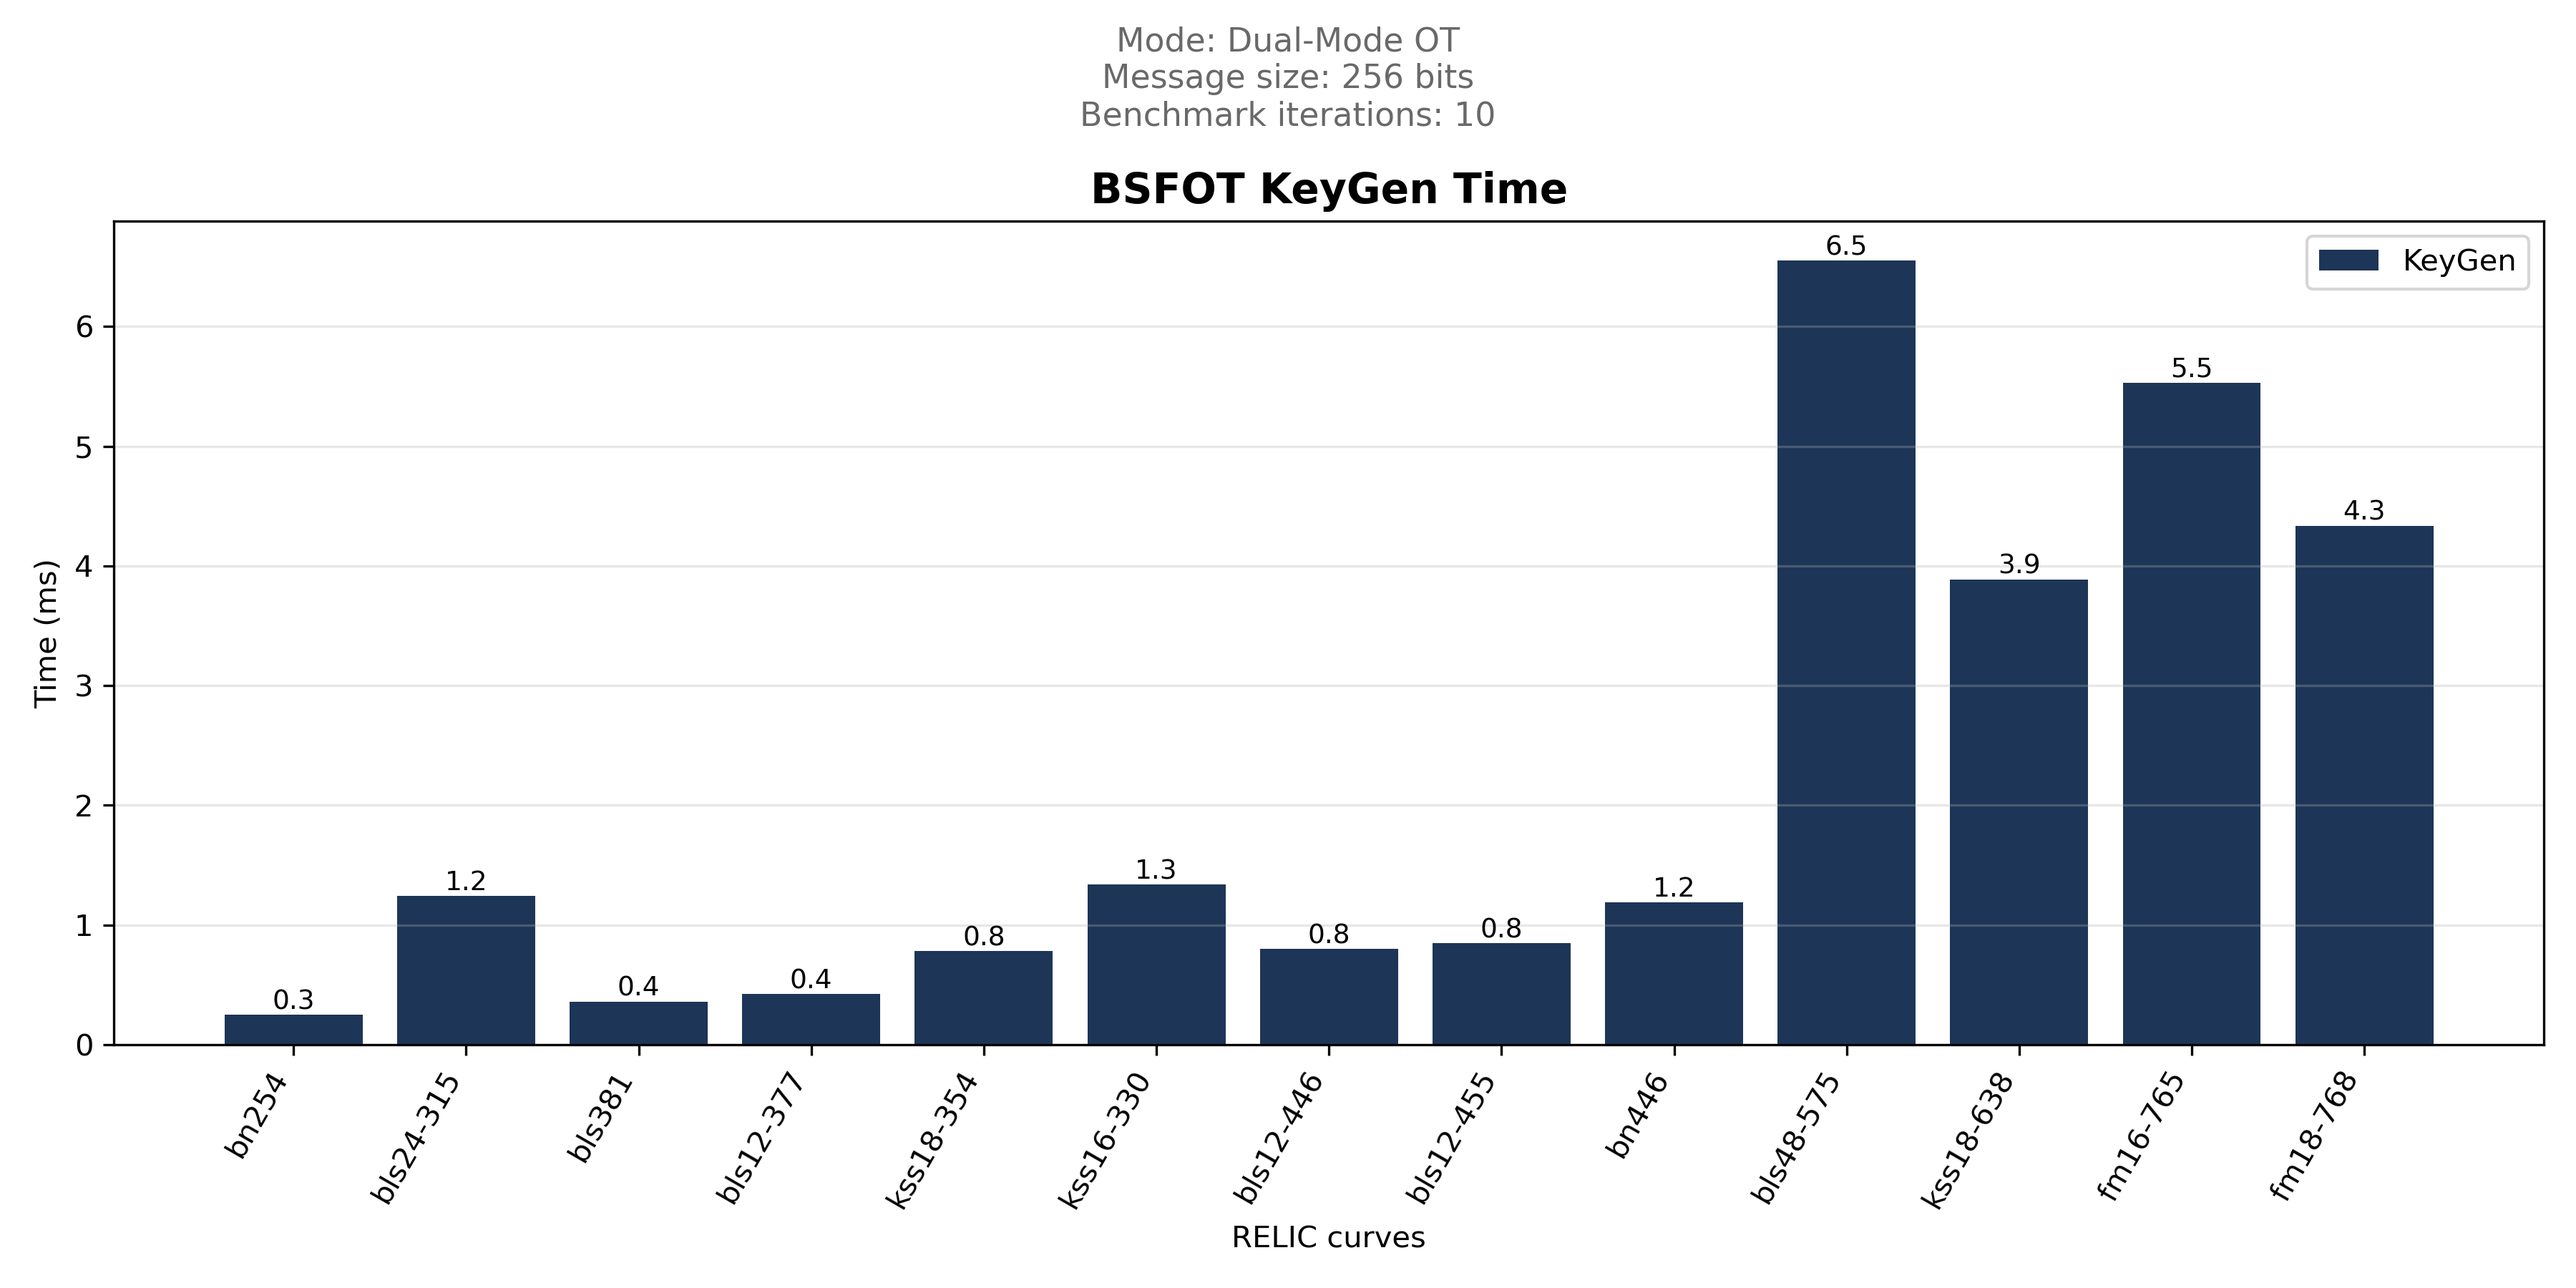
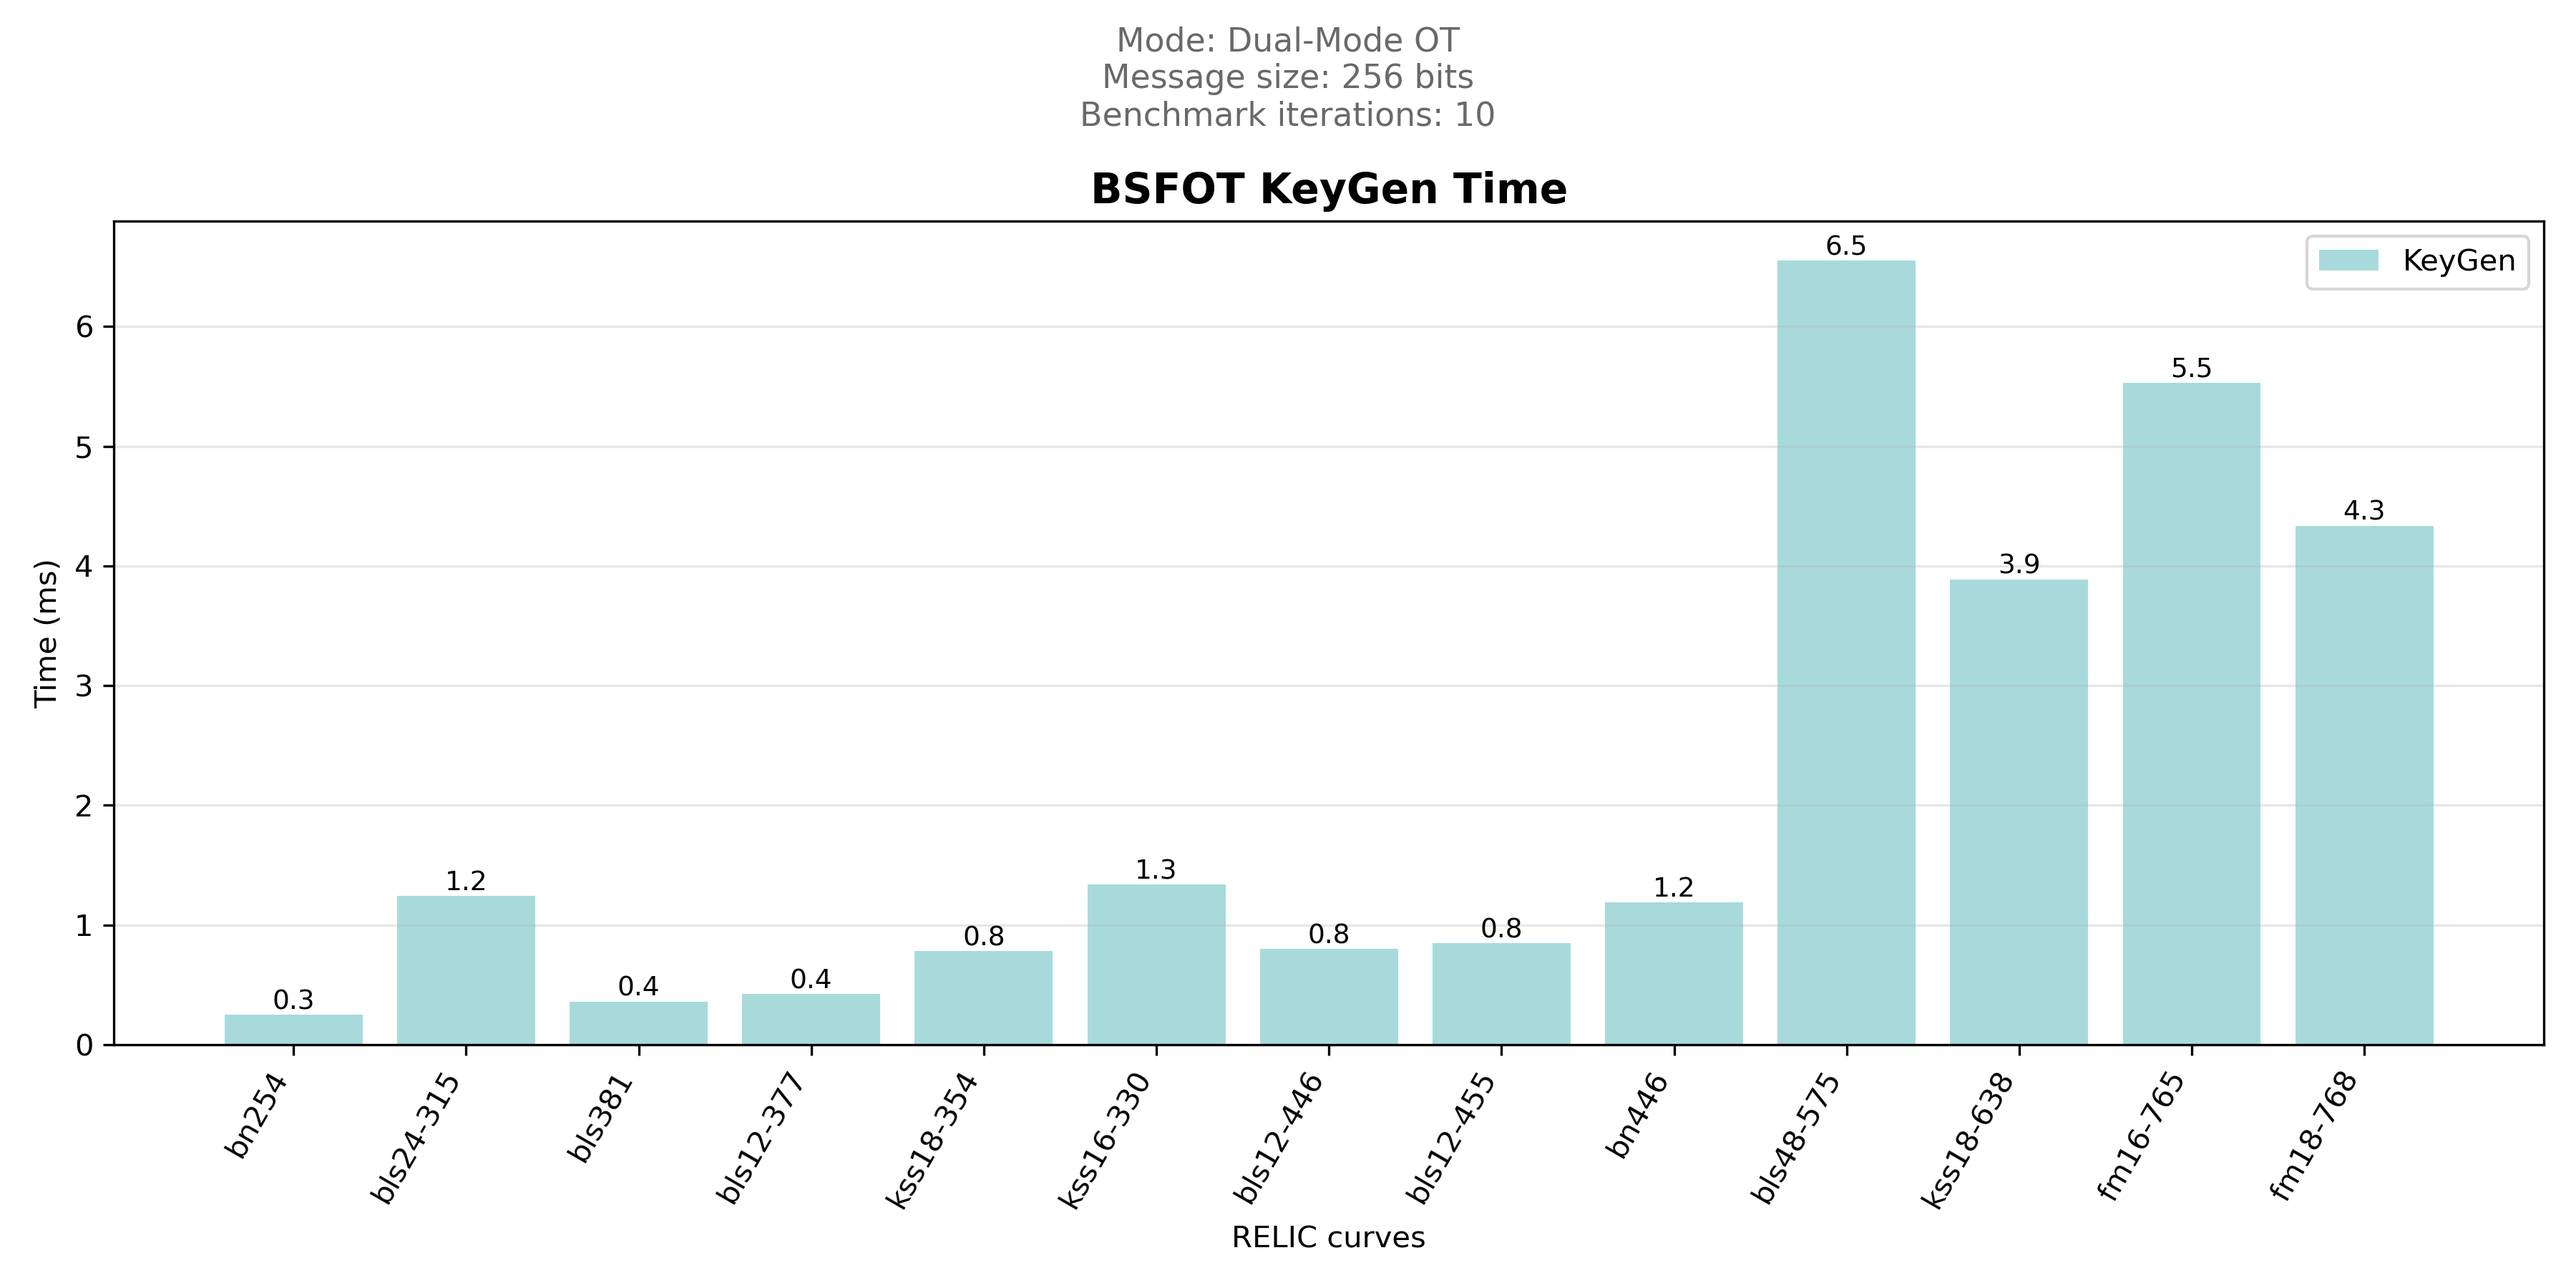
test display

Changed region(s): [[0.0622, 0.1867, 0.9644, 0.8089], [0.9022, 0.1867, 0.9333, 0.2178]]

diff --git a/bsfot/display.py b/bsfot/display.py
@@ -290,7 +290,7 @@ def main():
 
     plot_breakdown(results)
 
-    for m,color in zip(METRICS, ["#A8DADC", "#457B9D", "#1D3557", "#2A9D8F", "#6D597A", "#B8C0FF"]):
+    for m,color in zip(METRICS, ["#1D3557", "#457B9D", "#A8DADC","#2A9D8F","#6D597A", "#B8C0FF",]):
         plot_single_metric(
             results,
             m,
